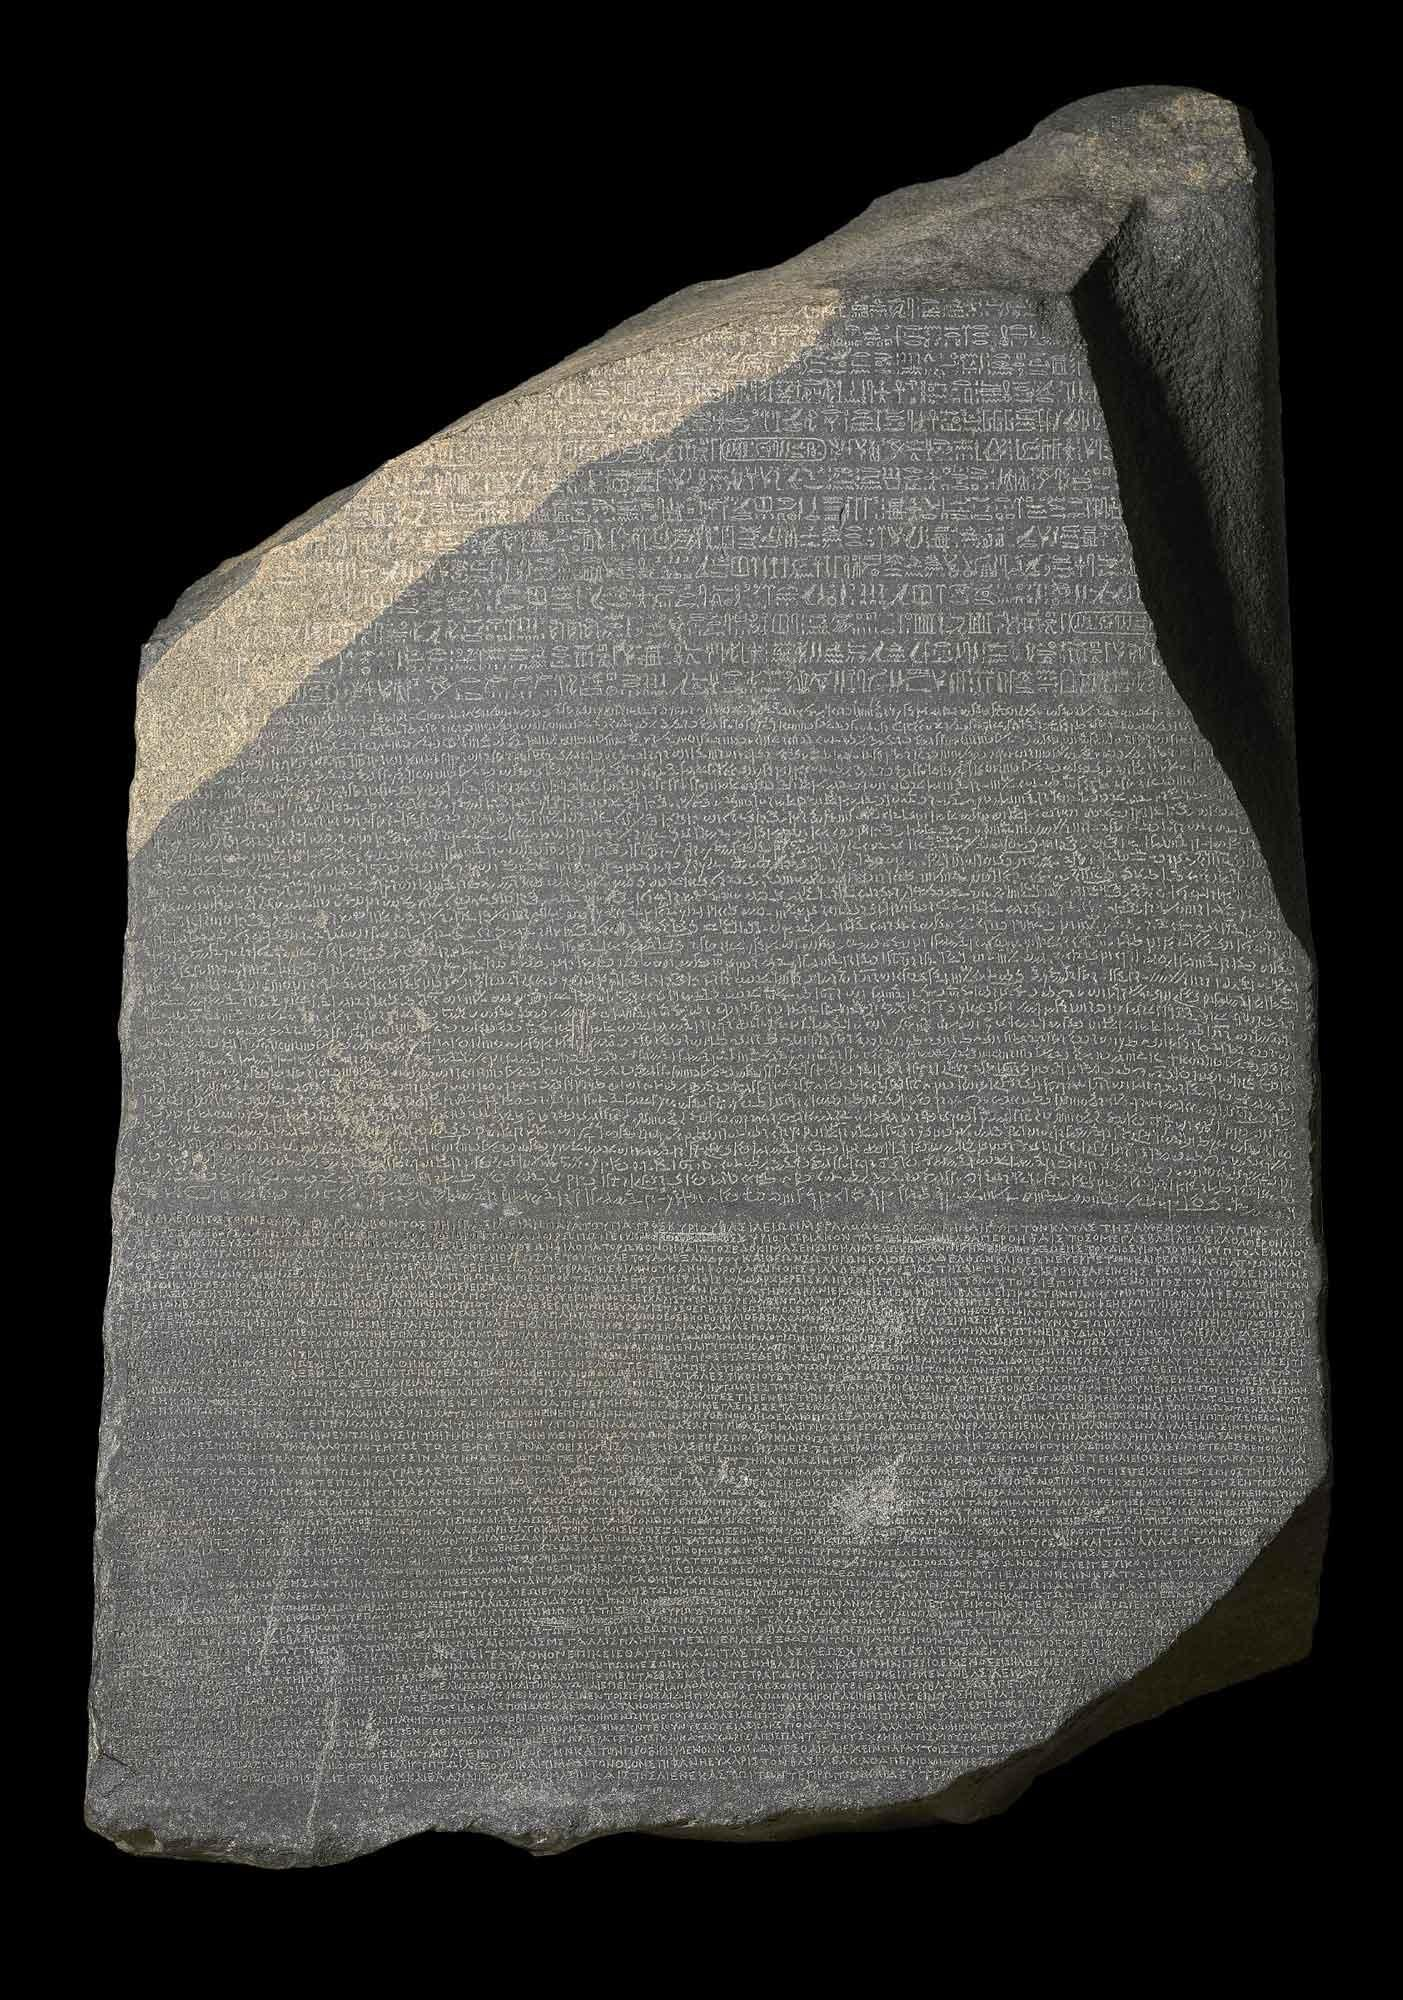
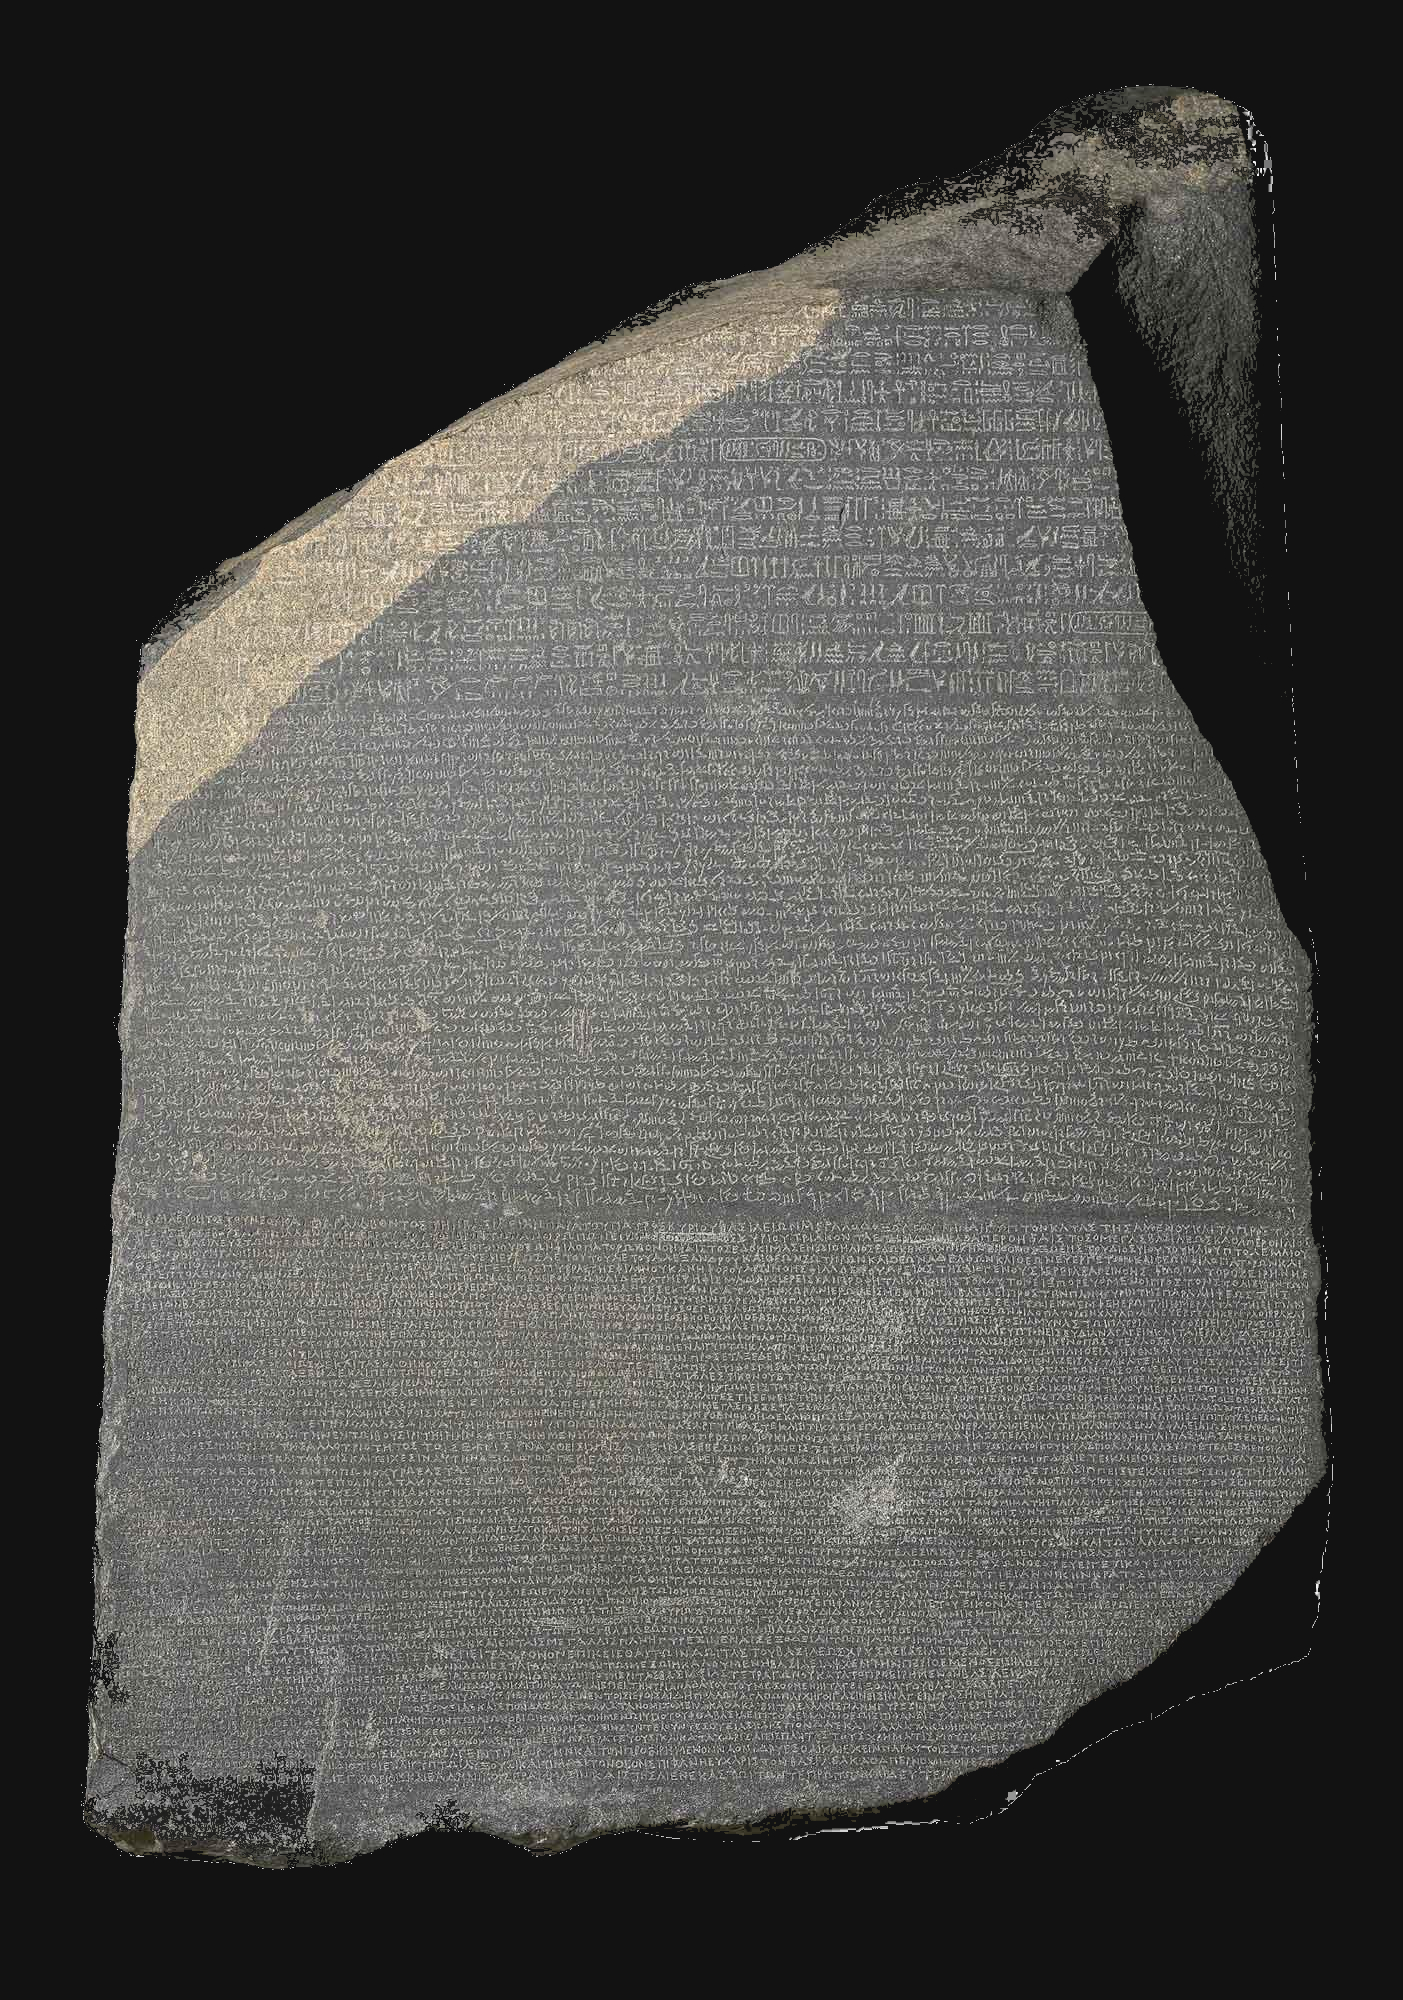
Made the pictures better

diff --git a/src/pages/Ancient Egypt/ancient.css b/src/pages/Ancient Egypt/ancient.css
@@ -160,7 +160,7 @@ h3{
   font-size: 17px;
   position: absolute;
   float: right;
-  margin: 30px auto 0px -430px;
+  margin: 30px auto 0px -400px;
 
   }
 
@@ -246,7 +246,7 @@ header::after{
   float: right;
   font-size: 10px;
   font-family: Fontz;
-  margin: 173% 50.4% 10px 3%;
+  margin: 185% 50.4% 10px 3%;
   color: #2CDCD8;
   text-align: left;
   z-index: 3;
@@ -256,10 +256,10 @@ header::after{
 .fifth_background_comment{
   position: absolute;
   float: right;
-  font-size: 15px;
+  font-size: 13px;
   font-family: Future_font;
   font-weight: lighter;
-  margin:  185% 70.4% 10px 3%;
+  margin:  190% 70.4% 10px 3%;
   color: #FFFFFF;
   text-align: left;
   z-index: 2;
@@ -320,13 +320,15 @@ header::after{
 
 .Fifth_background_picture{
   background-image: url('/home/afzal/Desktop/Software repository/UI Design/Darchives/files/research/rosetta_sculpture.jpg');
-  margin-top: 70%;
-  margin-left: 440px;
+  margin-top: 73.5%;
+  border-radius: 10px;
+  border: 1px solid #2CDCD8;
+  margin-left: 475px;
   background-repeat: no-repeat;
   background-attachment: scroll;
   position: absolute;
   background-size: 100% 100%;
-  height: 100%;
+  height: 85%;
   width: 28%;
 
 
@@ -346,7 +348,7 @@ header::after{
 }
 
 .fifth_gradient_right{
-  background: linear-gradient(to left, #262626 24%,transparent 100%);
+  background: linear-gradient(to left, #262626 20%,transparent 100%);
   width: 85%;
   height: 100%;
   margin: 59.7% 0% auto auto;
@@ -357,6 +359,18 @@ header::after{
   z-index: -1;
 }
 
+.Fifth_background{
+  background-color:#121212;
+  margin-top: 50%;
+  background-repeat: no-repeat;
+  background-attachment: scroll;
+  position: absolute;
+  background-size: 100% 100%;
+  height: 100%;
+  width: 100%;
+  z-index: -1;
+
+}
 
 .box{
   height: 15px;
@@ -387,6 +401,44 @@ header::after{
   align-items: center;
   justify-content: center;
 }
+
+.box_1_wrapper{
+  position: absolute;
+  margin: 1000% -290px auto;
+
+}
+
+.box_1{
+  height: 15px;
+  width: 330px;
+  display: flex;
+  background-color:#121212;
+  border: 0.5px solid #A1DCDB;
+  position: absolute;
+  z-index: 3;
+  margin:26.9% auto auto auto;
+  left: 80.5%;
+  -moz-transform: translateX(-50%) translateY(-50%);
+  -webkit-transform: translateX(-50%) translateY(-50%);
+  transform: translateX(-50%) translateY(-50%);
+
+}
+
+.box_1_content{
+  color:#A1DCDB;
+  font-family: Future_font;
+  font-size: 10.6px;
+  font-weight: lighter;
+  padding-top: 0px;
+  margin-left: 22px;
+  padding-bottom: 2px;
+  display: flex;
+
+  align-items: center;
+  justify-content: center;
+}
+
+
 
 .first_heading {
   position: relative;

diff --git a/src/pages/Ancient Egypt/ancientegypt.html b/src/pages/Ancient Egypt/ancientegypt.html
@@ -67,9 +67,13 @@ Background_black_light_tone_two:#191919
 </div>
 <div class="Fifth_background_picture" style="top:200%;bottom:0px;right:0px;left:0px;">
 </div>
+<!--
 <div class="fifth_gradient_right" style="top: 1500px;bottom: 0px; right:0px;left:0px;">
 </div>
 <div class="fifth_gradient_left" style="top: 900px;bottom: 0px; right:0px;left:0px;">
+</div>
+-->
+<div class="Fifth_background" style="top: 239.8%;bottom: 0px; right:0px;left:0px;">
 </div>
 
 
@@ -144,7 +148,17 @@ Early graves of the Badarian Period (c. 5000 BCE) contained food offerings and s
 <div class="box">
   <div class="box_content">
     <p>The view of the pyramids from a mountain in Alexandria</p>
-  </div>
+</div>
+
+
+<div class="box_1_wrapper">
+  <div class="box_1">
+    <div class="box_1_content">
+      <p>The Rosetta Stone, Courtesy of the Royal British Museum, 2020</p>
+    </div>
+</div>
+</div>
+
 
 
 <div class="timeline_heading_main">
@@ -249,7 +263,7 @@ Early graves of the Badarian Period (c. 5000 BCE) contained food offerings and s
 
   </div>
 </div>
-
+</div>
 
 
 
